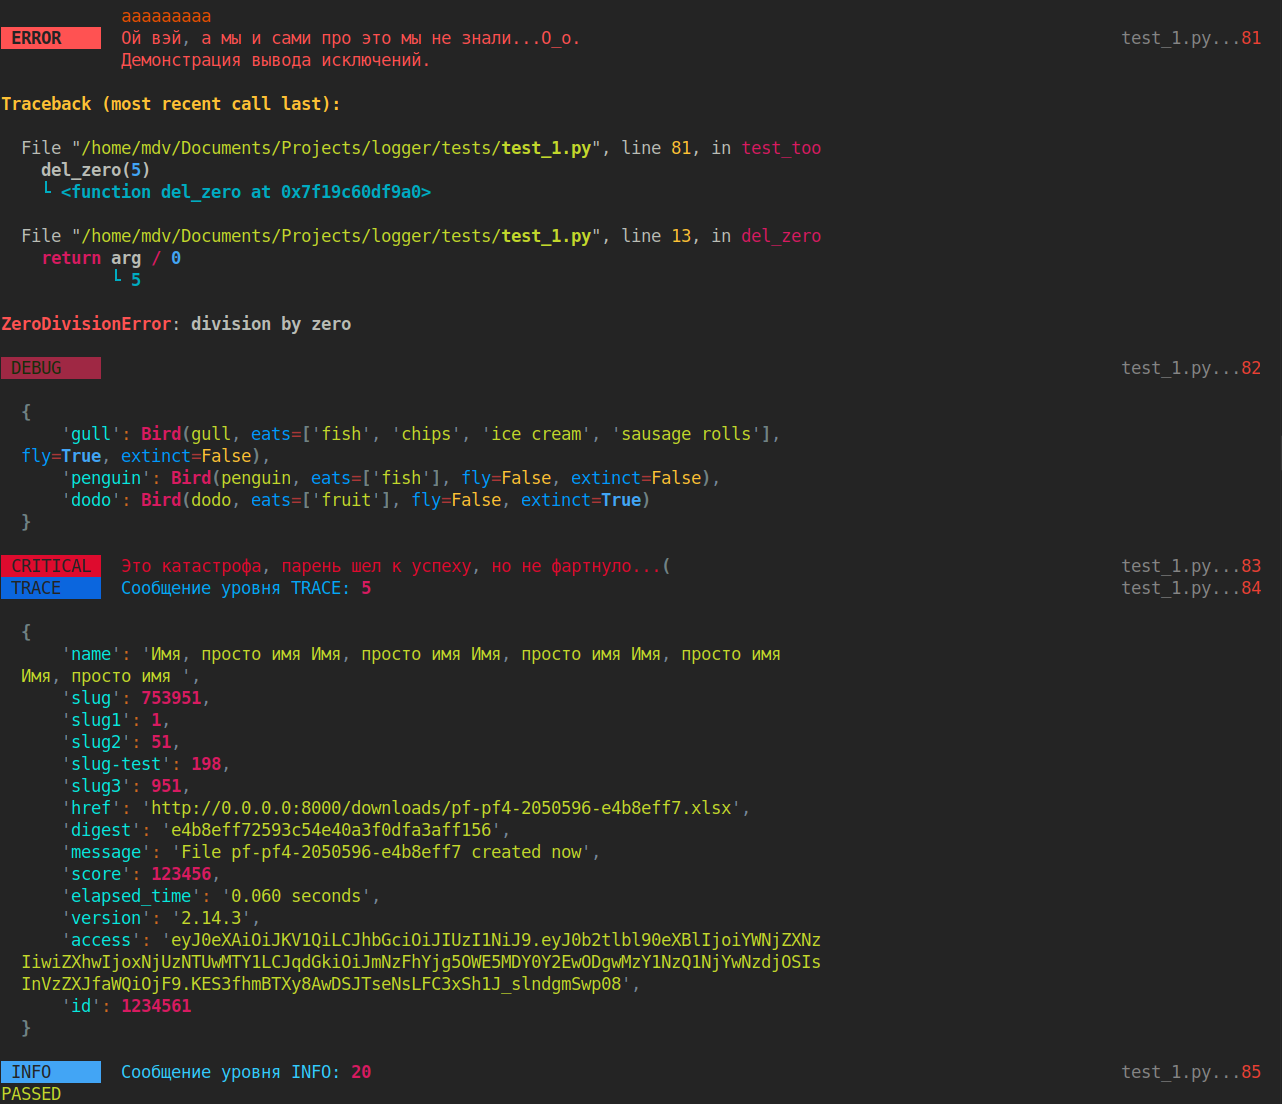
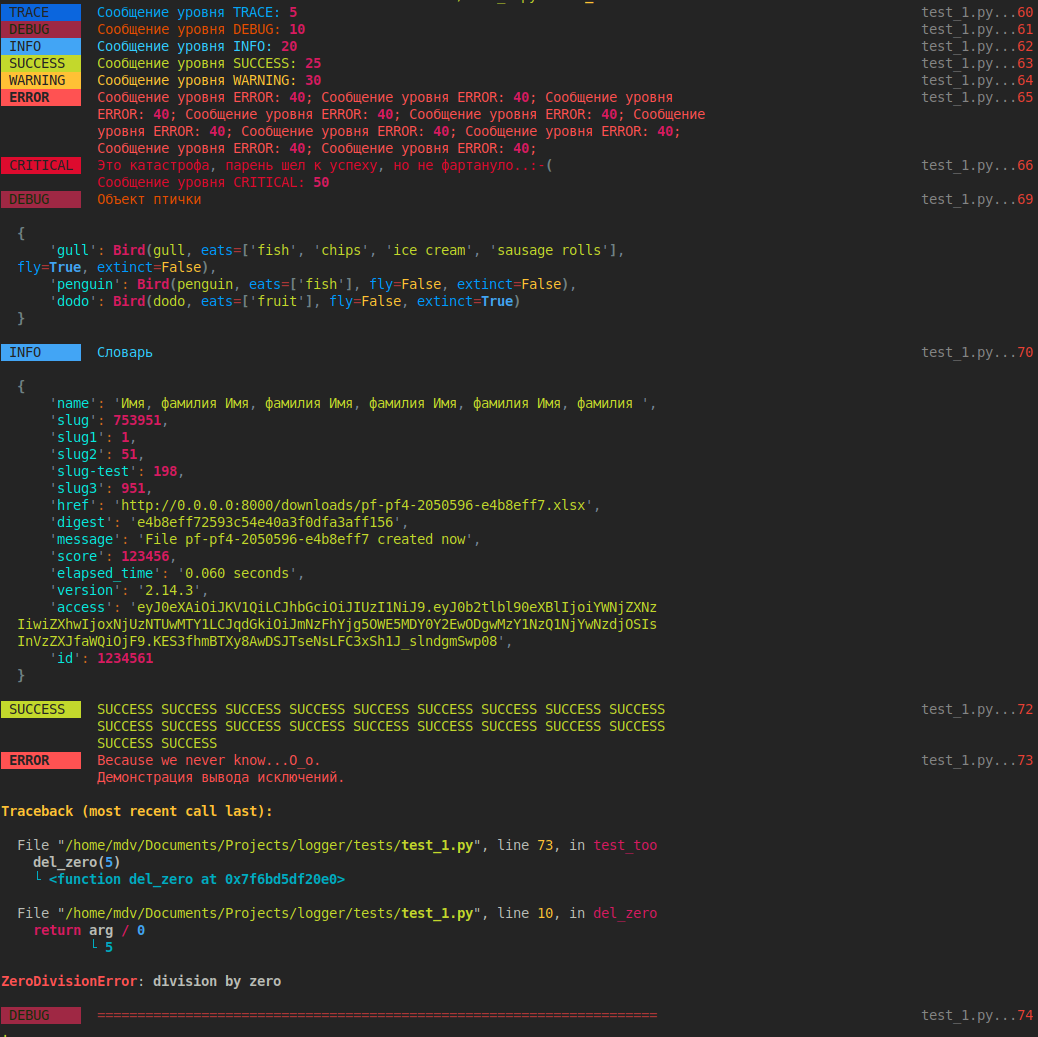
ref: few edits

diff --git a/tests/test_1.py b/tests/test_1.py
@@ -1,14 +1,11 @@
 from pprint import pprint
 import pytest
 
-from logger.logger_ import errlog, log
+from logger_mdv.logger_ import errlog, log
 
 
 # @errlog.catch
-# @errlog.catch(message="a=" * 160)
-@errlog.catch(
-    message="Ой вэй, а мы и сами про это мы не знали...O_o.\nДемонстрация вывода исключений."
-)
+@errlog.catch(message="Because we never know...O_o.\nДемонстрация вывода исключений.")
 def del_zero(arg):
     return arg / 0
 
@@ -22,7 +19,7 @@ def del_zero2(arg):
 
 
 obj = {
-    "name": "Имя, просто имя " * 5,
+    "name": "Имя, фамилия " * 5,
     "slug": 753951,
     "slug1": 1,
     "slug2": 51,
@@ -60,25 +57,18 @@ BIRDS = {
 
 
 def test_too():
-    str_ = "у " * 61
-
-    log.debug("obj")
-    # return
-    log.warning("obj")
-    log.error("err " * 100)
-    log.critical("птички", o=BIRDS)
-    log.debug("===============++=====")
-    # return
-    log.debug("+++++9", o=obj)
-    log.debug("test", obj)
-    log.success("m" * 16)
-    log.debug("a" * 160)
-    log.debug(str_)
-    str_ = "a" * 161
-    log.info(str_)
-    log.debug(str_)
-    del_zero(5)
-    log.debug("", o=BIRDS)
-    log.critical("Это катастрофа, парень шел к успеху, но не фартнуло...(")
-    log.trace("Сообщение уровня TRACE: 5", o=obj)
+    log.trace("Сообщение уровня TRACE: 5")
+    log.debug("Сообщение уровня DEBUG: 10")
     log.info("Сообщение уровня INFO: 20")
+    log.success("Сообщение уровня SUCCESS: 25")
+    log.warning("Сообщение уровня WARNING: 30")
+    log.error("Сообщение уровня ERROR: 40; " * 10)
+    log.critical(
+        "Это катастрофа, парень шел к успеху, но не фартануло..:-(\nСообщение уровня CRITICAL: 50"
+    )
+    log.debug("Объект птички", o=BIRDS)
+    log.info("Словарь", o=obj)
+    # return
+    log.success("SUCCESS " * 20)
+    del_zero(5)
+    log.debug("=" * 70)

diff --git a/logger_mdv/logger_.py b/logger_mdv/logger_.py
@@ -4,8 +4,8 @@ import sys
 import loguru
 from loguru import logger
 
-from logger.logger_assets import print_tbl, format_extra_obj
-from logger.config import config
+from logger_mdv.logger_assets import print_tbl, format_extra_obj
+from logger_mdv.config import config
 
 # https://flaviocopes.com/rgb-color-codes/
 # https://loguru.readthedocs.io/en/stable/api/logger.html#message
@@ -16,13 +16,13 @@ from logger.config import config
 # https://encycolorpedia.ru/30d5c8 - colors
 
 """
-    TRACE	    5	logger.trace()
-    DEBUG	    10	logger.debug()
-    INFO	    20	logger.info()
-    SUCCESS	    25	logger.success()
-    WARNING	    30	logger.warning()
-    ERROR	    40	logger.error()
-    CRITICAL	50	logger.critical()
+    TRACE	    5	logger_mdv.trace()
+    DEBUG	    10	logger_mdv.debug()
+    INFO	    20	logger_mdv.info()
+    SUCCESS	    25	logger_mdv.success()
+    WARNING	    30	logger_mdv.warning()
+    ERROR	    40	logger_mdv.error()
+    CRITICAL	50	logger_mdv.critical()
 """
 
 

diff --git a/conftest.py b/conftest.py
@@ -11,12 +11,12 @@ from _pytest.logging import LogCaptureFixture
 import pytest
 import logging
 
-from logger.logger_assets import console
-from logger.config import config as config_
+from logger_mdv.logger_assets import console
+from logger_mdv.config import config as config_
 
 
 def pytest_addoption(parser: Parser) -> None:
-    """Add a command line option to disable logger."""
+    """Add a command line option to disable logger_mdv."""
     parser.addoption("--log-disable", action="append", default=[], help="disable specific loggers")
     parser.addoption("--cmdopt", action="store", default="type1", help="my option: type1 or type2")
 

diff --git a/logger_mdv/logger_assets.py b/logger_mdv/logger_assets.py
@@ -7,7 +7,7 @@ from rich.highlighter import ReprHighlighter, _combine_regex as combine_regex
 from rich.theme import Theme
 from rich.table import Table
 from rich.console import Console
-from logger.config import config
+from logger_mdv.config import config
 
 
 console = Console()

diff --git a/README.md b/README.md
@@ -1,4 +1,4 @@
-### Логгер
+###Логгер
 
 ####Совместная работа [loguru](https://loguru.readthedocs.io) & [rich](https://rich.readthedocs.io).
 
@@ -13,7 +13,7 @@
 
 ```shell
 git clone 
-cd logger
+cd logger_mdv
 poetry shell
 poetry install
 ```
